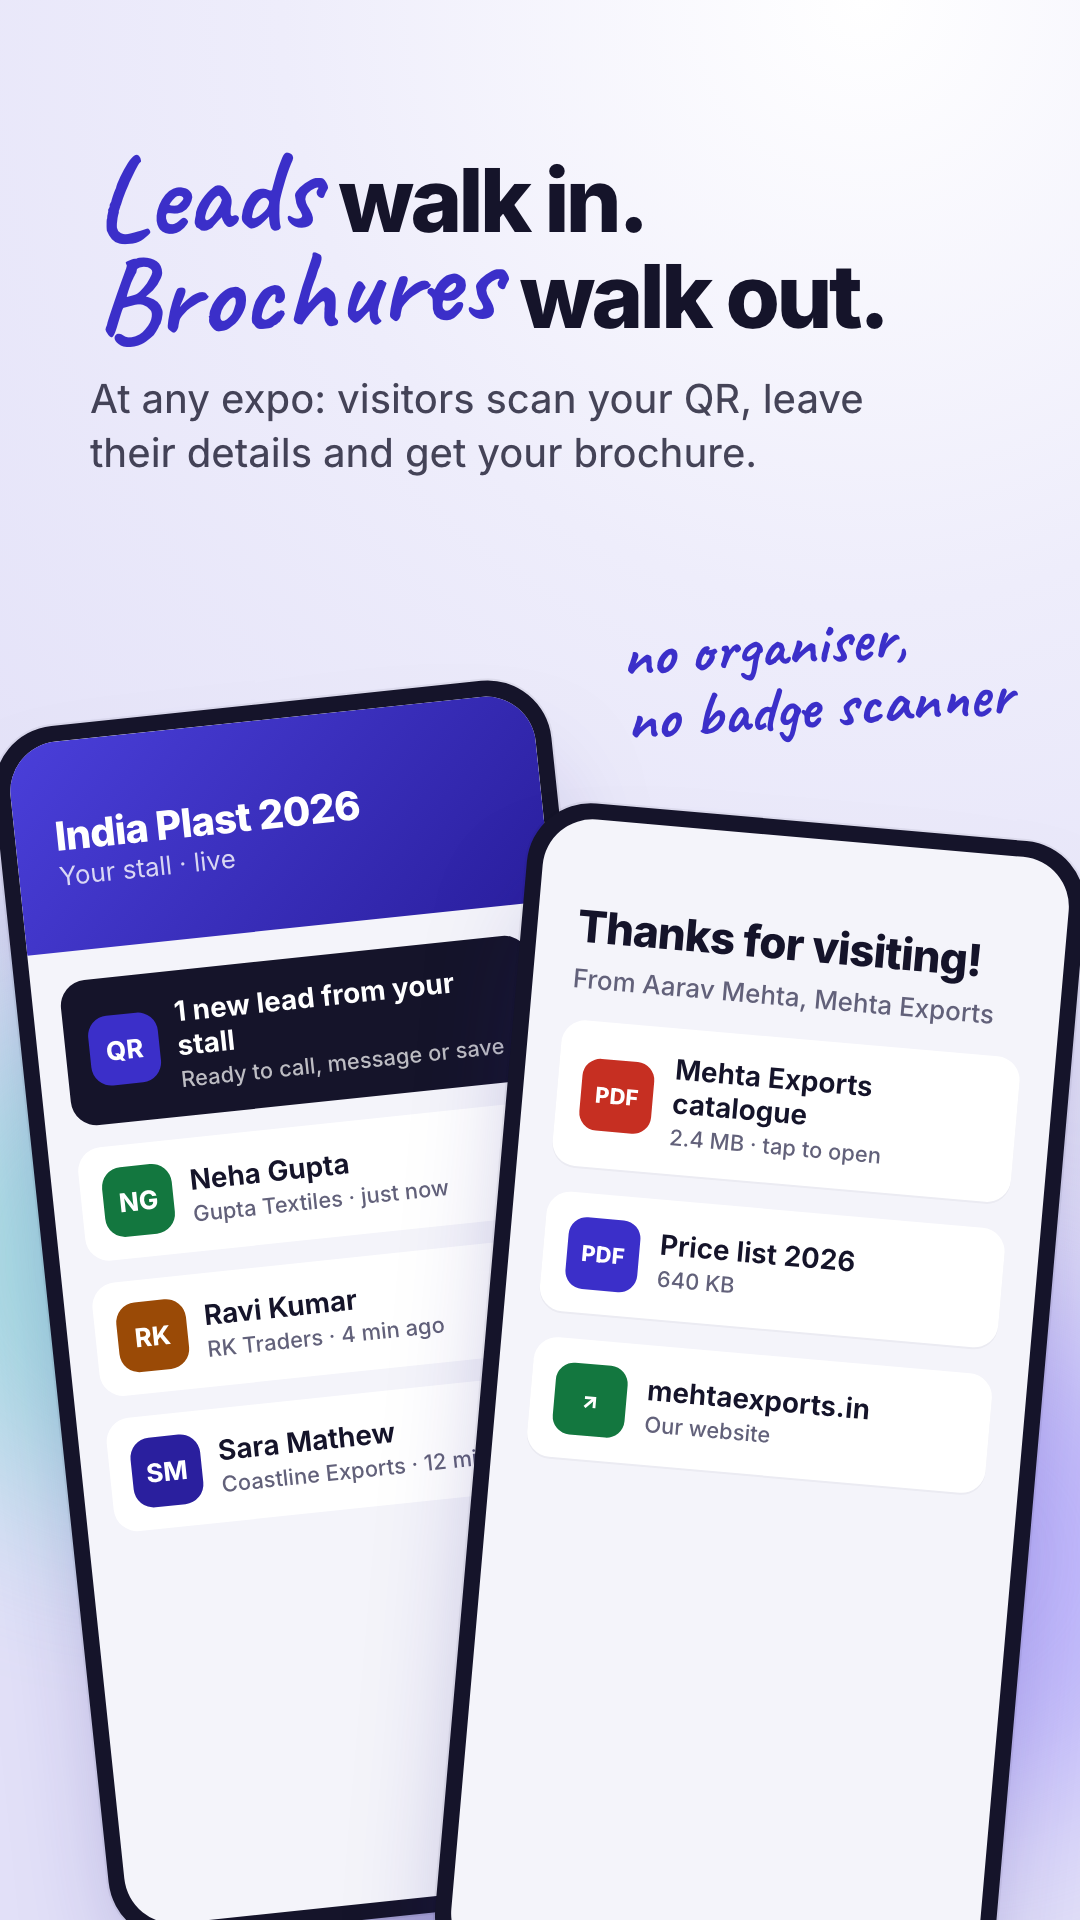
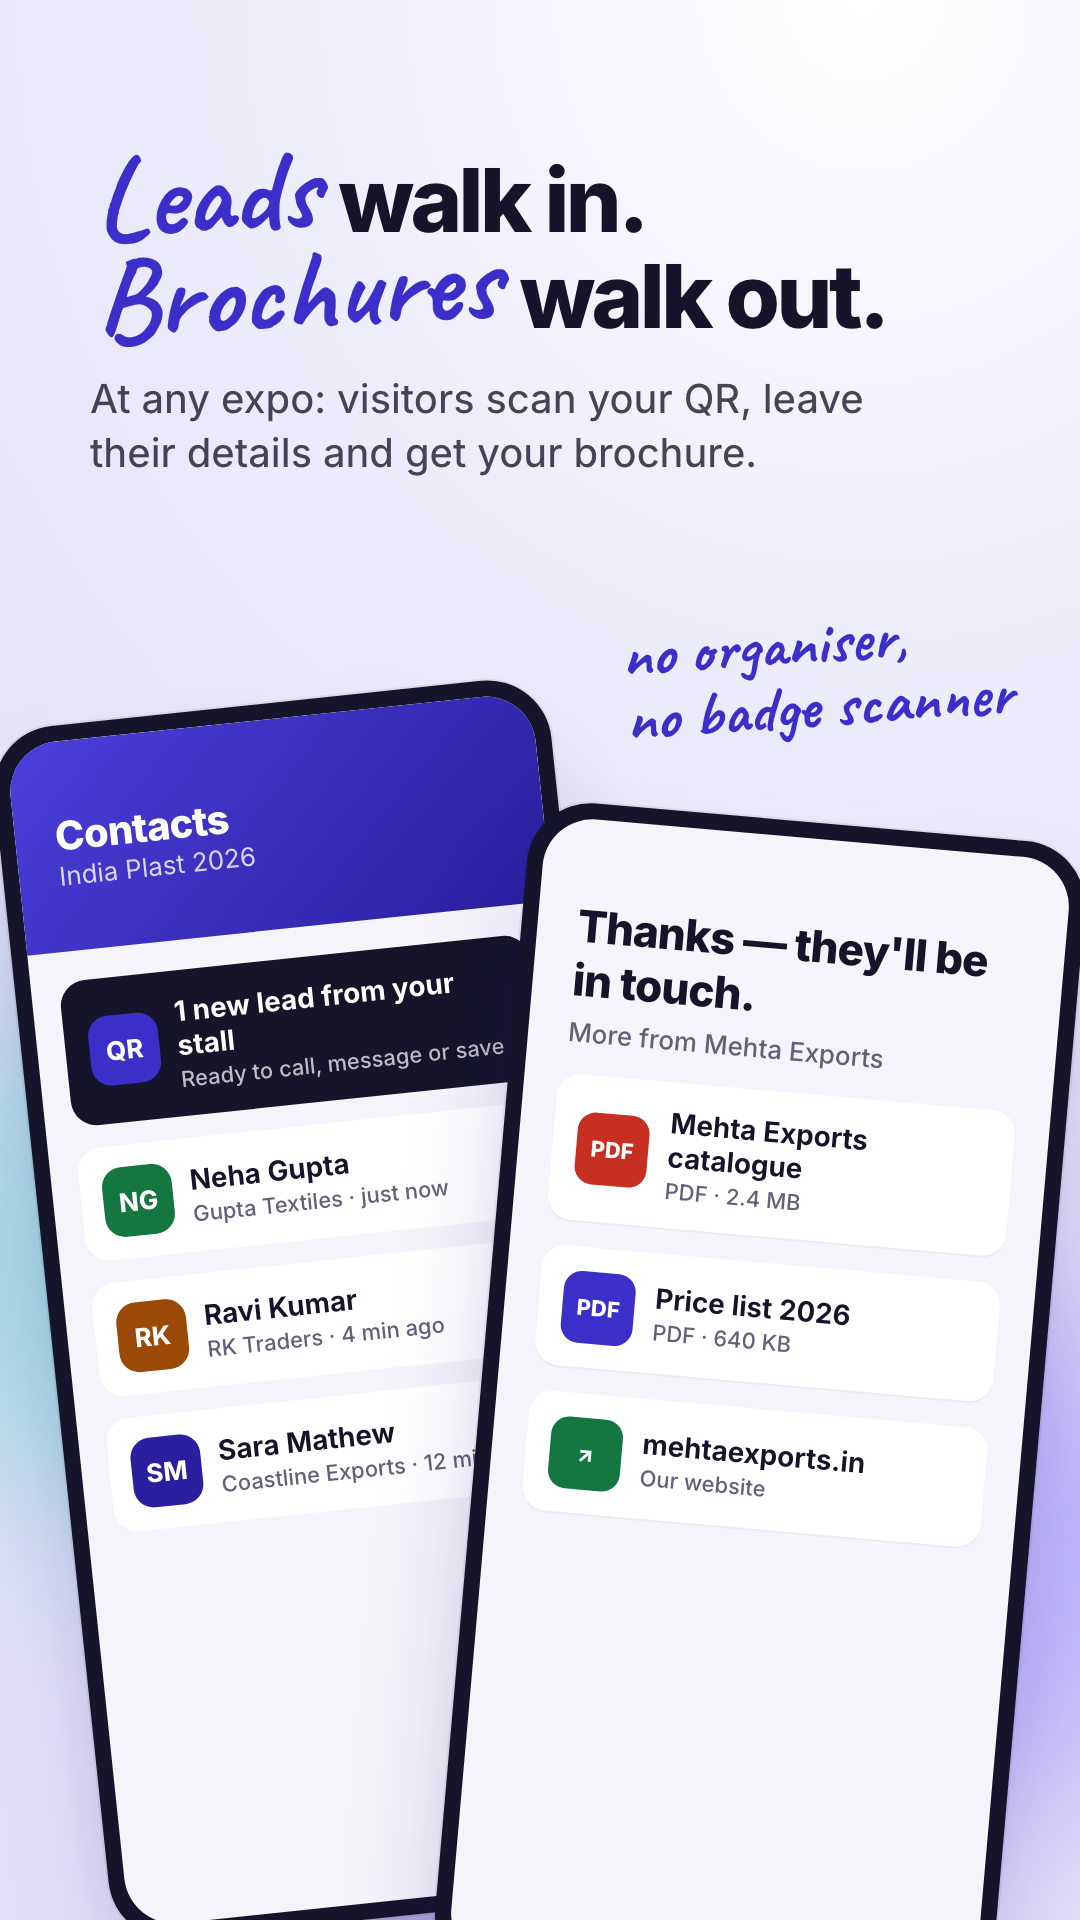
Plans v2 review fixes: Home shows Unlimited instead of a seven-digit count; the Worker answers plan_needed whichever database is live first; slide 1 and the tour use the visitor page's real words and say cards are filed under an open expo; rollout order in the roadmap

Changed region(s): [[0.4889, 0.4688, 0.9167, 0.7812], [0.0611, 0.4062, 0.3361, 0.4688]]

diff --git a/src/App.tsx b/src/App.tsx
@@ -17,7 +17,7 @@ import { findDuplicates } from './lib/dupes'
 import { backupDue, backupFileName, backupNudgeUntil, buildBackup, lastBackupAt, markBackedUp, mergeEvents, parseBackup, planRestore, saveBackupFile, snoozeBackupNudge } from './lib/backup'
 import { classifyFailure } from './lib/errors'
 import { MAX_ATTEMPTS, nextRetry } from './lib/retry'
-import { cardsLine, forgetBalance, isLow, scanGate, getBalance, parseBalance, setBalance, shouldResume } from './lib/balance'
+import { cardsFigure, cardsLine, forgetBalance, isLow, scanGate, getBalance, parseBalance, setBalance, shouldResume } from './lib/balance'
 import { ALLOWANCE } from '../shared/plans'
 import PlanPage from './components/PlanPage'
 import { useBalance } from './lib/useBalance'
@@ -587,7 +587,7 @@ export default function App() {
             }}
           />
         ) : tab === 'home' ? (
-          <Home cards={cards} events={events} dupes={dupes} cardsLeft={balance ? { left: balance.cards.left, low: isLow(balance) } : undefined} onPlans={openPlans} ready={readerReady(settings)} needsKey={!serverMode || !!settings.useOwnKey} install={install} backupNudge={nudgeBackup}
+          <Home cards={cards} events={events} dupes={dupes} cardsLeft={balance ? { left: balance.cards.left, low: isLow(balance), figure: cardsFigure(balance) } : undefined} onPlans={openPlans} ready={readerReady(settings)} needsKey={!serverMode || !!settings.useOwnKey} install={install} backupNudge={nudgeBackup}
             onBackup={() => void backupNow().then((m) => setBanner(m), () => setBanner('The export could not be saved. Try again.'))} onSnoozeBackup={() => { snoozeBackupNudge(); setBackupTick((n) => n + 1) }}
             onOpenContact={(id, idx) => setOpen({ id, idx })} onTogglePriority={(id, idx) => void togglePriority(id, idx)} onContacts={() => openContacts()} onCompanies={() => goto('companies')} onStarred={() => openContacts('priority')}
             onAttention={() => openContacts('attention')} onInsights={() => goto('insights', 'home')} onSetup={() => goto('settings', 'home')} onSettings={() => goto('settings', 'home')}

diff --git a/store/slides/01-leads.html b/store/slides/01-leads.html
@@ -27,7 +27,7 @@
 <div class="head"><h1><span class="hand">Leads</span> walk in.<br><span class="hand">Brochures</span> walk out.</h1><p class="sub">At any expo: visitors scan your QR, leave their details and get your brochure.</p></div>
 
 <div class="scr stall"><div class="in">
-  <div class="bar"><b>India Plast 2026</b><small>Your stall · live</small></div>
+  <div class="bar"><b>Contacts</b><small>India Plast 2026</small></div>
   <div class="toast"><span class="av" style="background:#3B2FC9">QR</span><span>1 new lead from your stall<small>Ready to call, message or save</small></span></div>
   <div class="row"><span class="av" style="background:#13773F">NG</span><span>Neha Gupta<small>Gupta Textiles · just now</small></span></div>
   <div class="row"><span class="av" style="background:#9A4A06">RK</span><span>Ravi Kumar<small>RK Traders · 4 min ago</small></span></div>
@@ -35,9 +35,9 @@
 </div></div>
 
 <div class="scr visitor"><div class="in">
-  <div class="thanks">Thanks for visiting!<small>From Aarav Mehta, Mehta Exports</small></div>
-  <div class="file"><span class="ic" style="background:#C62F22">PDF</span><span>Mehta Exports catalogue<small>2.4 MB · tap to open</small></span></div>
-  <div class="file"><span class="ic" style="background:#3B2FC9">PDF</span><span>Price list 2026<small>640 KB</small></span></div>
+  <div class="thanks">Thanks — they'll be in touch.<small>More from Mehta Exports</small></div>
+  <div class="file"><span class="ic" style="background:#C62F22">PDF</span><span>Mehta Exports catalogue<small>PDF · 2.4 MB</small></span></div>
+  <div class="file"><span class="ic" style="background:#3B2FC9">PDF</span><span>Price list 2026<small>PDF · 640 KB</small></span></div>
   <div class="file"><span class="ic" style="background:#13773F">↗</span><span>mehtaexports.in<small>Our website</small></span></div>
 </div></div>
 

diff --git a/src/components/Home.tsx b/src/components/Home.tsx
@@ -85,7 +85,8 @@ export default function Home({ cards, events, dupes, ready, needsKey, install, b
   onScan: () => void
   onMyCard: () => void
   /** What the account has left to read, when known (signed in); the row opens Plan & cards. */
-  cardsLeft?: { left: number; low: boolean }
+  /** `figure` is the count, or "Unlimited" (balance.ts cardsFigure). */
+  cardsLeft?: { left: number; low: boolean; figure: string }
   onPlans: () => void
 }) {
   const today = localISO()
@@ -166,10 +167,10 @@ export default function Home({ cards, events, dupes, ready, needsKey, install, b
             <button className={`mini${toCheck ? ' check' : ''}`} onClick={onAttention}><span>To check</span><b className="num">{toCheck}</b></button>
             {cardsLeft && (
               // the account's buying power, across the whole grid so the columns above stay aligned
-              <button className={`mini wide${cardsLeft.low ? ' check' : ''}`} onClick={onPlans} aria-label={`${cardsLeft.left} cards left${cardsLeft.left === 0 ? ', none left' : cardsLeft.low ? ', running low' : ''}. Plan and cards`}>
+              <button className={`mini wide${cardsLeft.low ? ' check' : ''}`} onClick={onPlans} aria-label={`${cardsLeft.figure} cards left${cardsLeft.left === 0 ? ', none left' : cardsLeft.low ? ', running low' : ''}. Plan and cards`}>
                 <span>Cards left</span>
                 <em>{cardsLeft.left === 0 ? 'None left · Add cards' : cardsLeft.low ? 'Running low · Add cards' : 'Plan & cards'}</em>
-                <b className="num">{cardsLeft.left}</b>
+                <b className="num">{cardsLeft.figure}</b>
               </button>
             )}
           </div>

diff --git a/src/lib/onboarding.ts b/src/lib/onboarding.ts
@@ -95,7 +95,7 @@ export type TourArt = 'mark' | 'cards' | 'leads' | 'card' | 'brief'
 export const TOUR: { art: TourArt; title: (v: TourVariant) => string; text: string }[] = [
   { art: 'mark', title: () => 'Meet *Pulse*', text: 'Business cards become contacts you can call or WhatsApp, in seconds. The pulse of your network.' },
   { art: 'cards', title: () => 'Several cards, *one photo*', text: 'Lay a stack of cards flat and take one picture. Everyone on them becomes a contact.' },
-  { art: 'leads', title: () => '*Leads* walk in. *Brochures* walk out.', text: 'At your stall, visitors scan your QR, leave their details and get your brochure. Every card you scan is filed under the expo.' },
+  { art: 'leads', title: () => '*Leads* walk in. *Brochures* walk out.', text: 'At your stall, visitors scan your QR, leave their details and get your brochure. Scan with an expo open and every card is filed under it.' },
   { art: 'card', title: () => 'Your card, *one scan away*', text: 'Make your digital card and share it on WhatsApp. At your stall, visitors scan its QR to leave their details.' },
   { art: 'brief', title: () => 'Never go into a call *cold*', text: 'Pulse Brief reads up on the person and their company, and gives you conversation starters before you call or WhatsApp.' },
 ]

diff --git a/server/worker.ts b/server/worker.ts
@@ -238,7 +238,8 @@ async function brief(req: Request, env: Env, origin: string | null, ctx?: { wait
   if (use.kind === 'refused') { refused('brief', 'sign_in', rateKey); return fail(401, 'sign_in', 'Sign in to use Pulse Brief.', origin) }
   if (use.kind === 'over') {
     refused('brief', use.reason, rateKey)
-    if (use.reason === 'plan_needed') return json({ error: { code: 'plan_needed', message: 'Pulse Brief comes with every plan.' }, balance: use.balance }, 402, origin)
+    // 'pro_only' is what a database before 0007 says: the same answer, whichever is live first
+    if (use.reason === 'plan_needed' || use.reason === 'pro_only') return json({ error: { code: 'plan_needed', message: 'Pulse Brief comes with every plan.' }, balance: use.balance }, 402, origin)
     if (use.reason === 'no_briefs') return json({ error: { code: 'no_briefs', message: 'No briefs left this month.' }, balance: use.balance }, 402, origin)
     return fail(429, 'daily_limit', `You've used today's ${use.limit} fresh briefs. Saved briefs still open. Resets at 5:30 am.`, origin)
   }

diff --git a/src/components/Welcome.tsx b/src/components/Welcome.tsx
@@ -146,8 +146,8 @@ function Scene({ art }: { art: TourArt }) {
       </div>
       {/* the visitor's phone: your brochure, the moment they sent their details */}
       <div className="wl-visitor">
-        <b>Thanks for visiting!</b>
-        <div className="wl-file"><span className="wl-pdf">PDF</span><span>Mehta Exports catalogue<small>2.4 MB</small></span></div>
+        <b>Thanks — they'll be in touch.</b>
+        <div className="wl-file"><span className="wl-pdf">PDF</span><span>Mehta Exports catalogue<small>PDF · 2.4 MB</small></span></div>
         <div className="wl-file link"><span className="wl-pdf">↗</span><span>mehtaexports.in<small>Our website</small></span></div>
       </div>
     </div>

diff --git a/src/lib/balance.ts b/src/lib/balance.ts
@@ -27,6 +27,8 @@ export function parseBalance(x: unknown): Balance | null {
 }
 
 export const cardsLine = (b: Balance) => (isUnlimited(b.tier) ? 'Unlimited cards' : b.cards.left === 0 ? 'No cards left' : `${b.cards.left} ${b.cards.left === 1 ? 'card' : 'cards'} left`)
+/** The figure Home shows: the count, or "Unlimited" (Unlimited's allowance is a large number, never shown). */
+export const cardsFigure = (b: Balance) => (isUnlimited(b.tier) ? 'Unlimited' : String(b.cards.left))
 export const isLow = (b: Balance) => !isUnlimited(b.tier) && b.cards.left <= LOW_CARDS
 
 /** The line under Pulse Brief: a paid plan's month (and extra), or the trial; empty when none are left. */

diff --git a/ROADMAP.md b/ROADMAP.md
@@ -175,6 +175,14 @@ Starter ₹99 (100 cards, 3 Briefs); Plus ₹199 (250, 5); Pro ₹399 (400, 20);
 plan or the Exhibition pass, enforced where leads and brochures arrive. Play Billing (part 2) creates its products from
 this list.
 
+**Rollout order (0007 refuses free accounts' leads the moment it runs):**
+1. Deploy the Worker (it answers the old and the new Brief code alike).
+2. Merge `pulse-brand` to `main`, so GitHub Pages publishes the visitor page that explains "This stall isn't collecting
+   details right now", and ship the app build.
+3. Then run `supabase/migrations/0007_plans_v2.sql` in the Supabase SQL editor.
+
+Free users' Collect-leads QR stops taking details at step 3. Grant test plans with `npm run grant -- <email> starter`.
+
 **Part 1 built 2026-10-05 on branch `pricing`, awaiting migration 0005 and the real-phone check** (spec
 `docs/superpowers/specs/2026-10-05-pricing-design.md`, plan `docs/superpowers/plans/2026-10-05-pricing.md`).
 
